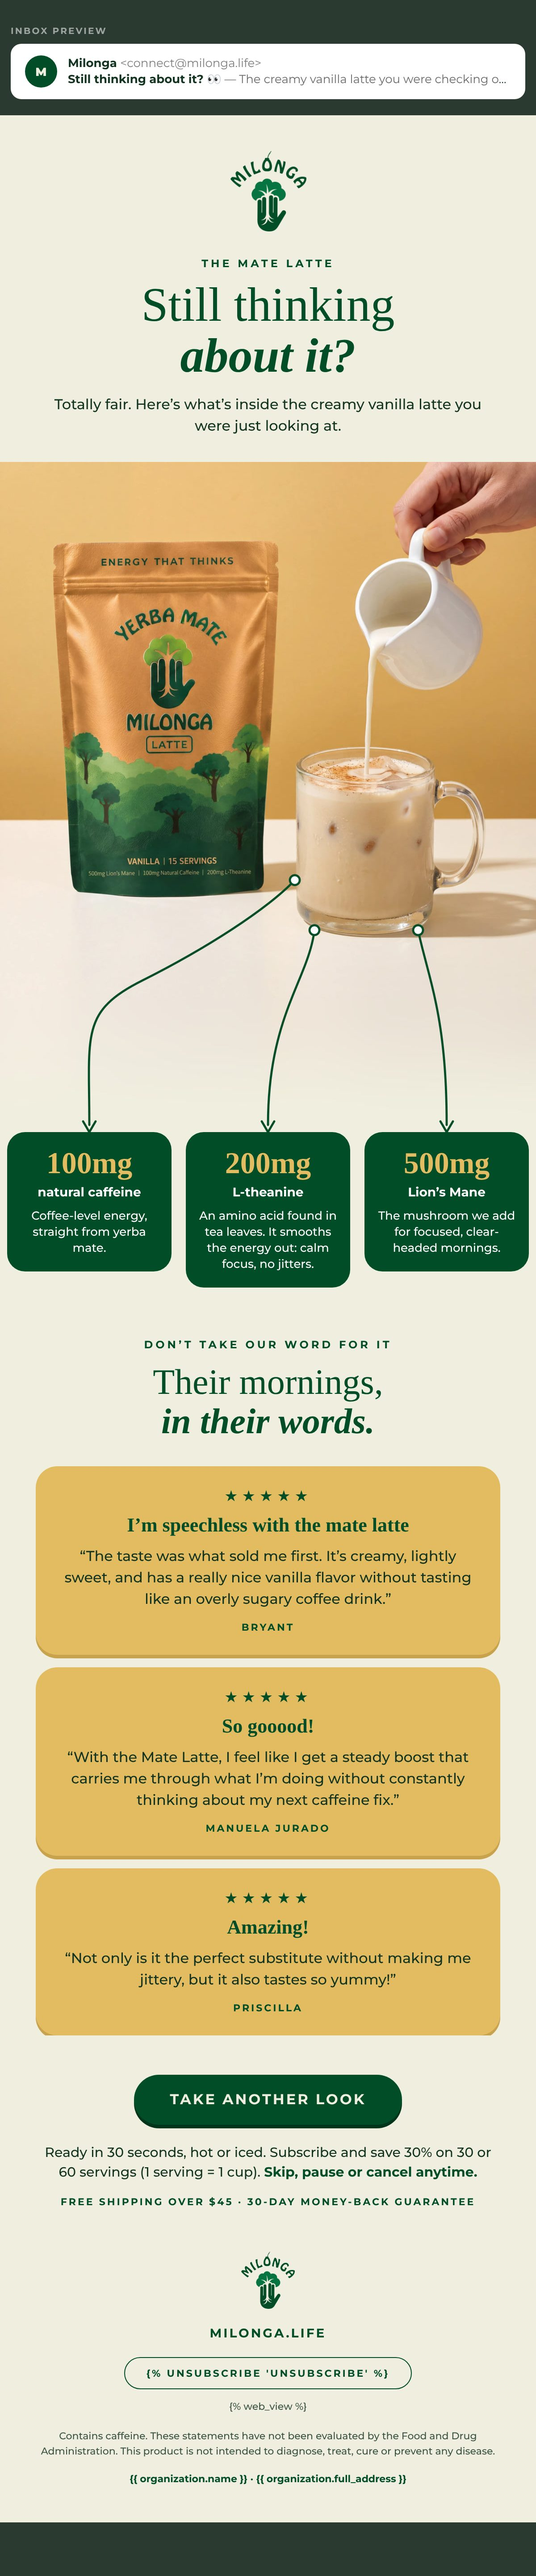
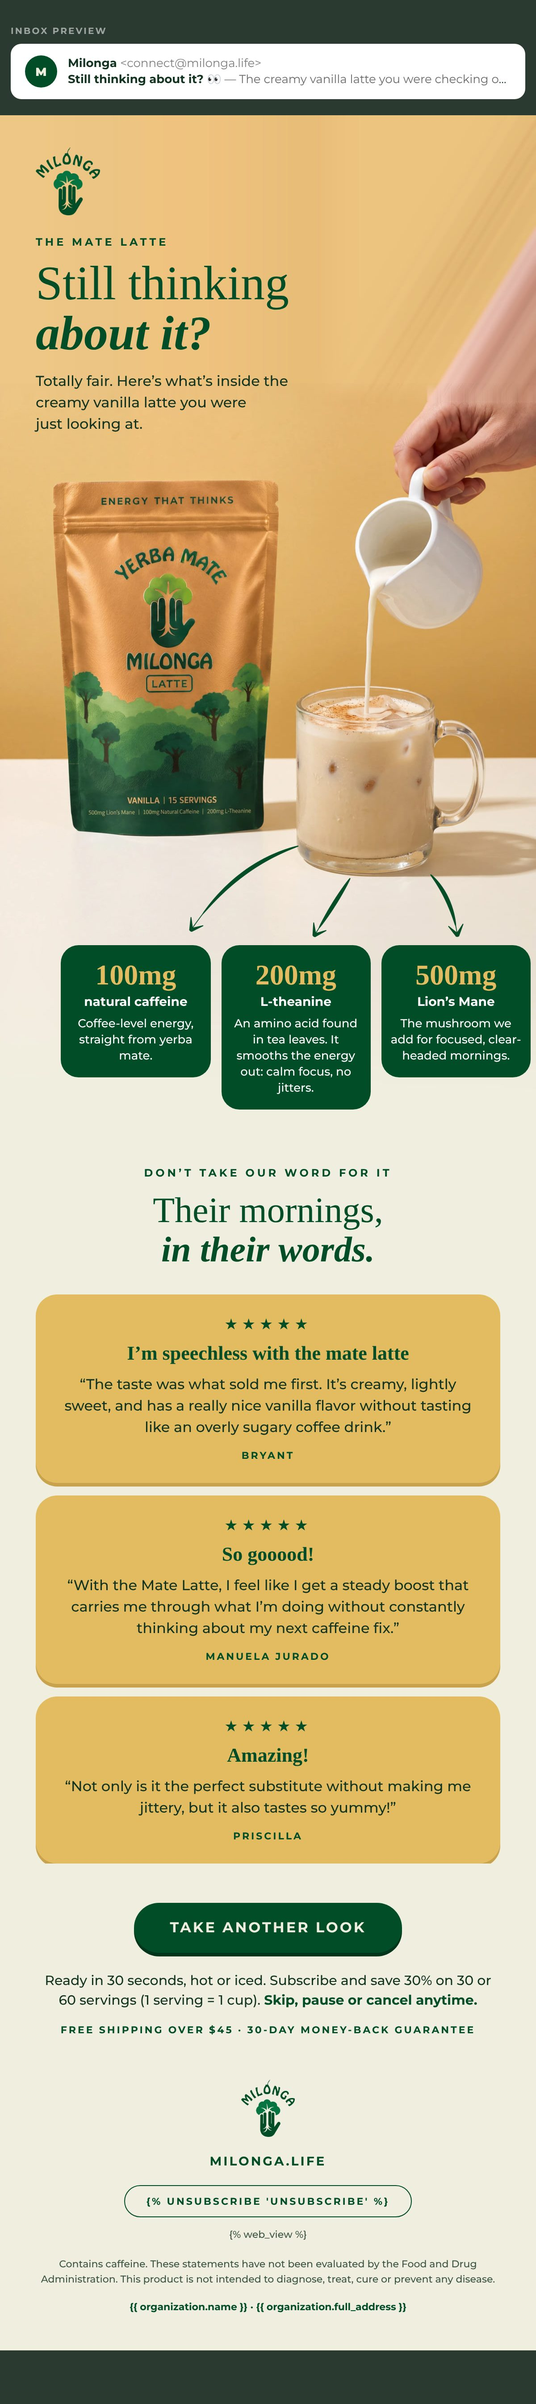
Browse E1: backgrounds on Klaviyo's CDN, README and renders
Claude-Session: https://claude.ai/code/session_01NhEtXPnfeCJfN73SqBkUZ5

diff --git a/email-ds/exports/klaviyo/browse-e1/browse-e1.html b/email-ds/exports/klaviyo/browse-e1/browse-e1.html
@@ -18,7 +18,13 @@
     .pad-photo { padding-left:16px !important; padding-right:16px !important; }
     .h-hero { font-size:44px !important; line-height:46px !important; }
     .h-sec { font-size:32px !important; line-height:36px !important; }
-    .co { padding:0 4px !important; }
+    .hero { height:940px !important; background-image:url('https://cdn.klaviyomail.com/company/TwvSnK/images/f054a621-f808-4c31-be07-66d7f1734a77.jpeg') !important; background-size:cover !important; background-position:center top !important; }
+    .hero-in { padding:28px 22px 0 !important; }
+    .hero-logo { width:57px !important; height:60px !important; }
+    .hero-intro { max-width:260px !important; font-size:15px !important; line-height:22px !important; }
+    .hero-gap { height:440px !important; line-height:440px !important; }
+    .co-lead { width:4px !important; }
+    .co { width:33% !important; padding:0 4px !important; }
     .co-card { padding:14px 6px 14px !important; }
     .co-big { font-size:24px !important; line-height:26px !important; }
     .co-name { font-size:12px !important; line-height:15px !important; }
@@ -28,6 +34,7 @@
   }
   @media (prefers-color-scheme: dark) {
     .bg-page { background-color:#F0EFDF !important; }
+    .bg-hero { background-color:#E7BE7A !important; }
 
   }
 </style>
@@ -35,45 +42,46 @@
 <tr><td align="center">
 <table role="presentation" class="wrap" width="600" cellpadding="0" cellspacing="0" border="0" style="width:600px;max-width:600px;">
 
-<!-- ── 1 · STILL THINKING ABOUT IT? ──────────────────────────────── -->
-<tr><td class="pad bg-page" align="center" bgcolor="#F0EFDF" style="background-color:#F0EFDF;padding:40px 44px 0;font-family:'Montserrat','Helvetica Neue',Helvetica,Arial,sans-serif;">
-<a href="https://milonga.life/?utm_source=klaviyo&amp;utm_medium=email&amp;utm_campaign=browse_abandon_mate_latte&amp;utm_content=b1_logo" target="_blank"><img src="https://cdn.klaviyomail.com/company/TwvSnK/images/b6a03046-605a-4e87-b22f-a530be1633e3.png" width="85" height="90" alt="Milonga" style="display:block;margin:0 auto;width:85px;height:90px;border:0;"></a>
-<div style="padding-top:28px;font-size:12px;line-height:16px;font-weight:700;letter-spacing:3px;text-transform:uppercase;color:#004D27;">The Mate Latte</div>
+<!-- ── 1 · STILL THINKING ABOUT IT? (the photo is the section's background:
+     title on the gold wall, three arrows out of the cup, cards on the table) ── -->
+<tr><td class="bg-hero hero" align="left" valign="top" height="1120" background="https://cdn.klaviyomail.com/company/TwvSnK/images/d25e1011-0516-4d22-b721-0fc15fc38730.jpeg" bgcolor="#E7BE7A" style="height:1120px;background-color:#E7BE7A;background-image:url('https://cdn.klaviyomail.com/company/TwvSnK/images/d25e1011-0516-4d22-b721-0fc15fc38730.jpeg');background-size:cover;background-position:center top;background-repeat:no-repeat;padding:0;">
+<!--[if gte mso 9]><v:rect xmlns:v="urn:schemas-microsoft-com:vml" fill="true" stroke="false" style="width:600px;height:1120px;"><v:fill type="frame" src="https://cdn.klaviyomail.com/company/TwvSnK/images/d25e1011-0516-4d22-b721-0fc15fc38730.jpeg" color="#E7BE7A" /><v:textbox inset="0,0,0,0"><![endif]-->
+<div class="hero-in" style="padding:36px 40px 0;font-family:'Montserrat','Helvetica Neue',Helvetica,Arial,sans-serif;">
+<a href="https://milonga.life/?utm_source=klaviyo&amp;utm_medium=email&amp;utm_campaign=browse_abandon_mate_latte&amp;utm_content=b1_logo" target="_blank"><img class="hero-logo" src="https://cdn.klaviyomail.com/company/TwvSnK/images/b6a03046-605a-4e87-b22f-a530be1633e3.png" width="72" height="76" alt="Milonga" style="display:block;width:72px;height:76px;border:0;"></a>
+<div style="padding-top:22px;font-size:12px;line-height:16px;font-weight:700;letter-spacing:3px;text-transform:uppercase;color:#004D27;">The Mate Latte</div>
 <div class="h-hero" style="padding-top:10px;font-family:'Times New Roman',Times,Georgia,serif;font-size:54px;line-height:56px;font-weight:400;color:#004D27;">Still thinking</div>
-<div class="h-hero" style="font-family:'Times New Roman',Times,Georgia,serif;font-size:54px;line-height:58px;font-weight:700;font-style:italic;color:#004D27;">about it?</div>
-<div style="padding-top:14px;font-size:16px;line-height:24px;font-weight:500;color:#12331F;">Totally fair. Here&rsquo;s what&rsquo;s inside the creamy vanilla latte you were just <span style="white-space:nowrap;">looking at.</span></div>
-</td></tr>
-<!-- the photo, with three arrows out of the cup; they end on the three cards below -->
-<tr><td class="bg-page" align="center" bgcolor="#F0EFDF" style="background-color:#F0EFDF;padding:28px 0 0;font-size:0;line-height:0;">
-<a href="https://milonga.life/products/the-original-mate-latte?utm_source=klaviyo&amp;utm_medium=email&amp;utm_campaign=browse_abandon_mate_latte&amp;utm_content=b1_photo" target="_blank"><img src="https://cdn.klaviyomail.com/company/TwvSnK/images/292465d3-186d-4d94-9321-5e566a00604f.jpeg" width="600" alt="A pouch of Milonga Mate Latte beside a glass of iced Mate Latte, with milk pouring in. Three arrows point from the cup to what is inside it." style="display:block;width:100%;max-width:600px;height:auto;border:0;"></a>
-</td></tr>
-<tr><td class="bg-page" bgcolor="#F0EFDF" style="background-color:#F0EFDF;padding:0;">
+<div class="h-hero" style="font-family:'Times New Roman',Times,Georgia,serif;font-size:54px;line-height:56px;font-weight:700;font-style:italic;color:#004D27;">about it?</div>
+<div class="hero-intro" style="padding-top:14px;max-width:340px;font-size:16px;line-height:24px;font-weight:500;color:#12331F;">Totally fair. Here&rsquo;s what&rsquo;s inside the creamy vanilla latte you were <span style="white-space:nowrap;">just looking at.</span></div>
+</div>
+<div class="hero-gap" style="height:571px;line-height:571px;font-size:0;">&nbsp;</div>
 <table role="presentation" width="100%" cellpadding="0" cellspacing="0" border="0" style="border-collapse:separate;"><tr>
-<td class="co" width="33.33%" valign="top" style="width:33.33%;padding:0 8px;">
+<td class="co-lead" width="72" style="width:72px;font-size:0;line-height:0;">&nbsp;</td>
+<td class="co" width="176" valign="top" style="width:176px;padding:0 6px;">
 <table role="presentation" width="100%" cellpadding="0" cellspacing="0" border="0" style="border-collapse:separate;"><tr>
-<td class="co-card" align="center" valign="top" bgcolor="#004D27" style="background-color:#004D27;border-radius:20px;padding:18px 12px 18px;font-family:'Montserrat','Helvetica Neue',Helvetica,Arial,sans-serif;">
-<div class="co-big" style="font-family:'Times New Roman',Times,Georgia,serif;font-size:34px;line-height:36px;font-weight:700;color:#E3BC62;">100mg</div>
+<td class="co-card" align="center" valign="top" bgcolor="#004D27" style="background-color:#004D27;border-radius:20px;padding:16px 10px 16px;font-family:'Montserrat','Helvetica Neue',Helvetica,Arial,sans-serif;">
+<div class="co-big" style="font-family:'Times New Roman',Times,Georgia,serif;font-size:32px;line-height:34px;font-weight:700;color:#E3BC62;">100mg</div>
 <div class="co-name" style="padding-top:4px;font-size:14px;line-height:18px;font-weight:700;color:#FFFFFF;">natural caffeine</div>
-<div class="co-text" style="padding-top:8px;font-size:13px;line-height:18px;font-weight:500;color:#FFFFFF;">Coffee-level energy, straight from yerba mate.</div>
+<div class="co-text" style="padding-top:6px;font-size:13px;line-height:18px;font-weight:500;color:#FFFFFF;">Coffee-level energy, straight from yerba mate.</div>
 </td></tr></table>
 </td>
-<td class="co" width="33.33%" valign="top" style="width:33.33%;padding:0 8px;">
+<td class="co" width="176" valign="top" style="width:176px;padding:0 6px;">
 <table role="presentation" width="100%" cellpadding="0" cellspacing="0" border="0" style="border-collapse:separate;"><tr>
-<td class="co-card" align="center" valign="top" bgcolor="#004D27" style="background-color:#004D27;border-radius:20px;padding:18px 12px 18px;font-family:'Montserrat','Helvetica Neue',Helvetica,Arial,sans-serif;">
-<div class="co-big" style="font-family:'Times New Roman',Times,Georgia,serif;font-size:34px;line-height:36px;font-weight:700;color:#E3BC62;">200mg</div>
+<td class="co-card" align="center" valign="top" bgcolor="#004D27" style="background-color:#004D27;border-radius:20px;padding:16px 10px 16px;font-family:'Montserrat','Helvetica Neue',Helvetica,Arial,sans-serif;">
+<div class="co-big" style="font-family:'Times New Roman',Times,Georgia,serif;font-size:32px;line-height:34px;font-weight:700;color:#E3BC62;">200mg</div>
 <div class="co-name" style="padding-top:4px;font-size:14px;line-height:18px;font-weight:700;color:#FFFFFF;">L-theanine</div>
-<div class="co-text" style="padding-top:8px;font-size:13px;line-height:18px;font-weight:500;color:#FFFFFF;">An amino acid found in tea leaves. It smooths the energy out: calm focus, no jitters.</div>
+<div class="co-text" style="padding-top:6px;font-size:13px;line-height:18px;font-weight:500;color:#FFFFFF;">An amino acid found in tea leaves. It smooths the energy out: calm focus, no jitters.</div>
 </td></tr></table>
 </td>
-<td class="co" width="33.33%" valign="top" style="width:33.33%;padding:0 8px;">
+<td class="co" width="176" valign="top" style="width:176px;padding:0 6px;">
 <table role="presentation" width="100%" cellpadding="0" cellspacing="0" border="0" style="border-collapse:separate;"><tr>
-<td class="co-card" align="center" valign="top" bgcolor="#004D27" style="background-color:#004D27;border-radius:20px;padding:18px 12px 18px;font-family:'Montserrat','Helvetica Neue',Helvetica,Arial,sans-serif;">
-<div class="co-big" style="font-family:'Times New Roman',Times,Georgia,serif;font-size:34px;line-height:36px;font-weight:700;color:#E3BC62;">500mg</div>
+<td class="co-card" align="center" valign="top" bgcolor="#004D27" style="background-color:#004D27;border-radius:20px;padding:16px 10px 16px;font-family:'Montserrat','Helvetica Neue',Helvetica,Arial,sans-serif;">
+<div class="co-big" style="font-family:'Times New Roman',Times,Georgia,serif;font-size:32px;line-height:34px;font-weight:700;color:#E3BC62;">500mg</div>
 <div class="co-name" style="padding-top:4px;font-size:14px;line-height:18px;font-weight:700;color:#FFFFFF;">Lion&rsquo;s Mane</div>
-<div class="co-text" style="padding-top:8px;font-size:13px;line-height:18px;font-weight:500;color:#FFFFFF;">The mushroom we add for focused, clear-headed mornings.</div>
+<div class="co-text" style="padding-top:6px;font-size:13px;line-height:18px;font-weight:500;color:#FFFFFF;">The mushroom we add for focused, clear-headed mornings.</div>
 </td></tr></table>
 </td>
 </tr></table>
+<!--[if gte mso 9]></v:textbox></v:rect><![endif]-->
 </td></tr>
 
 <!-- ── 3 · PROOF (real reviews) ───────────────────────────────────── -->
